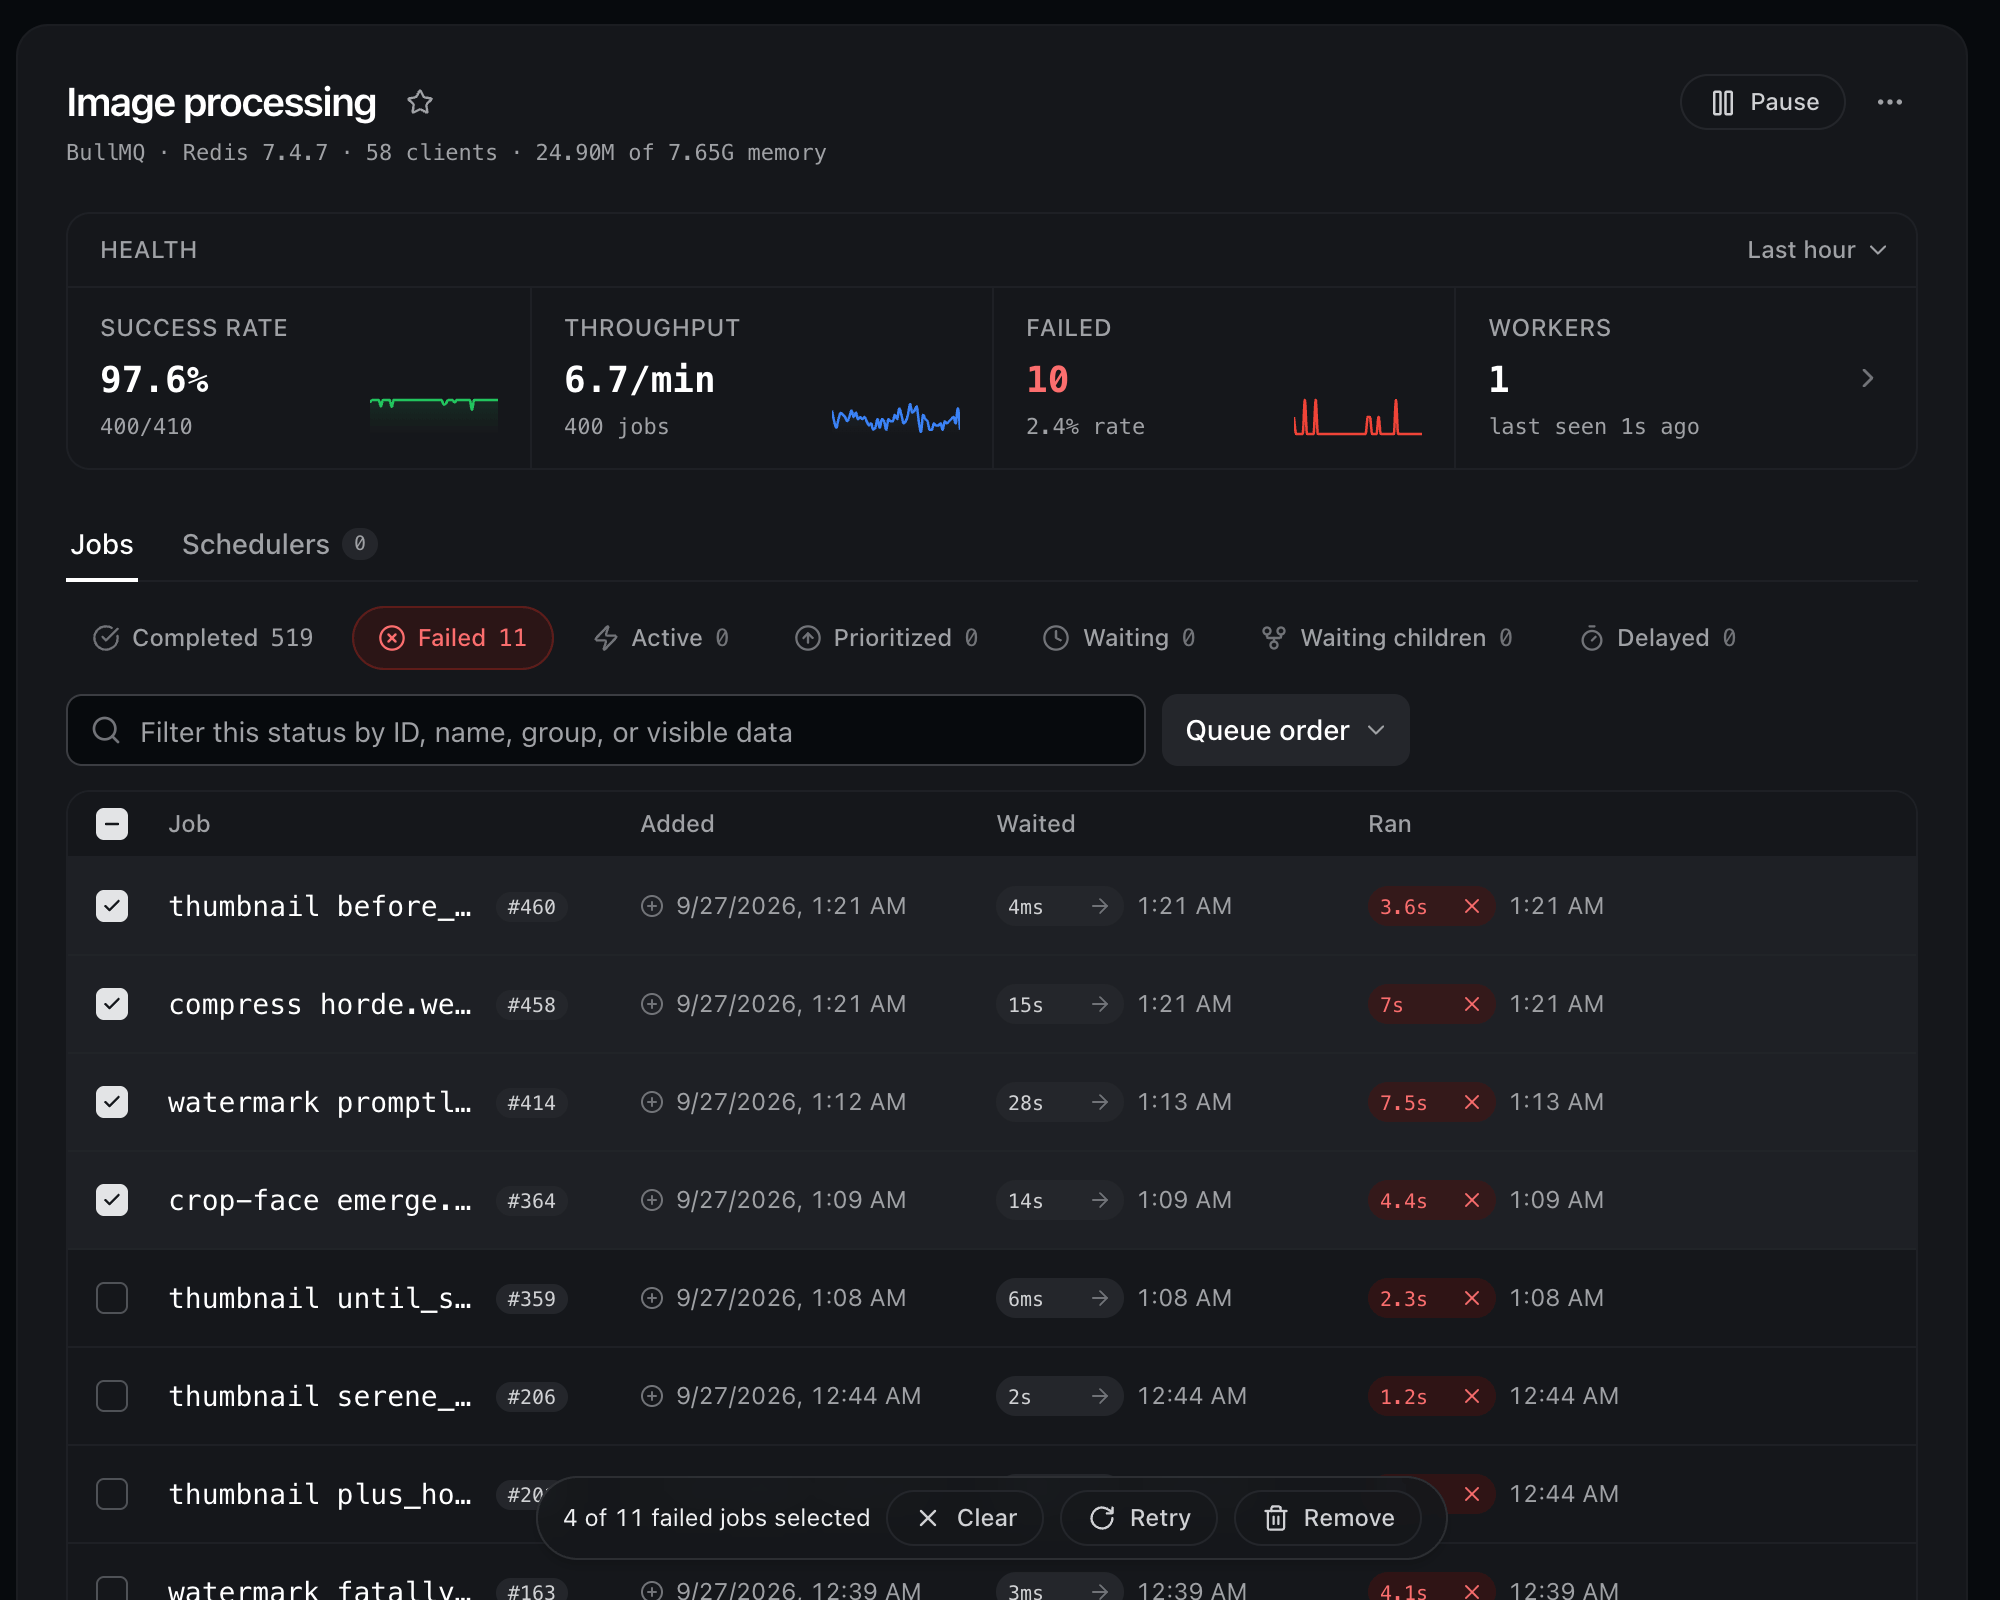
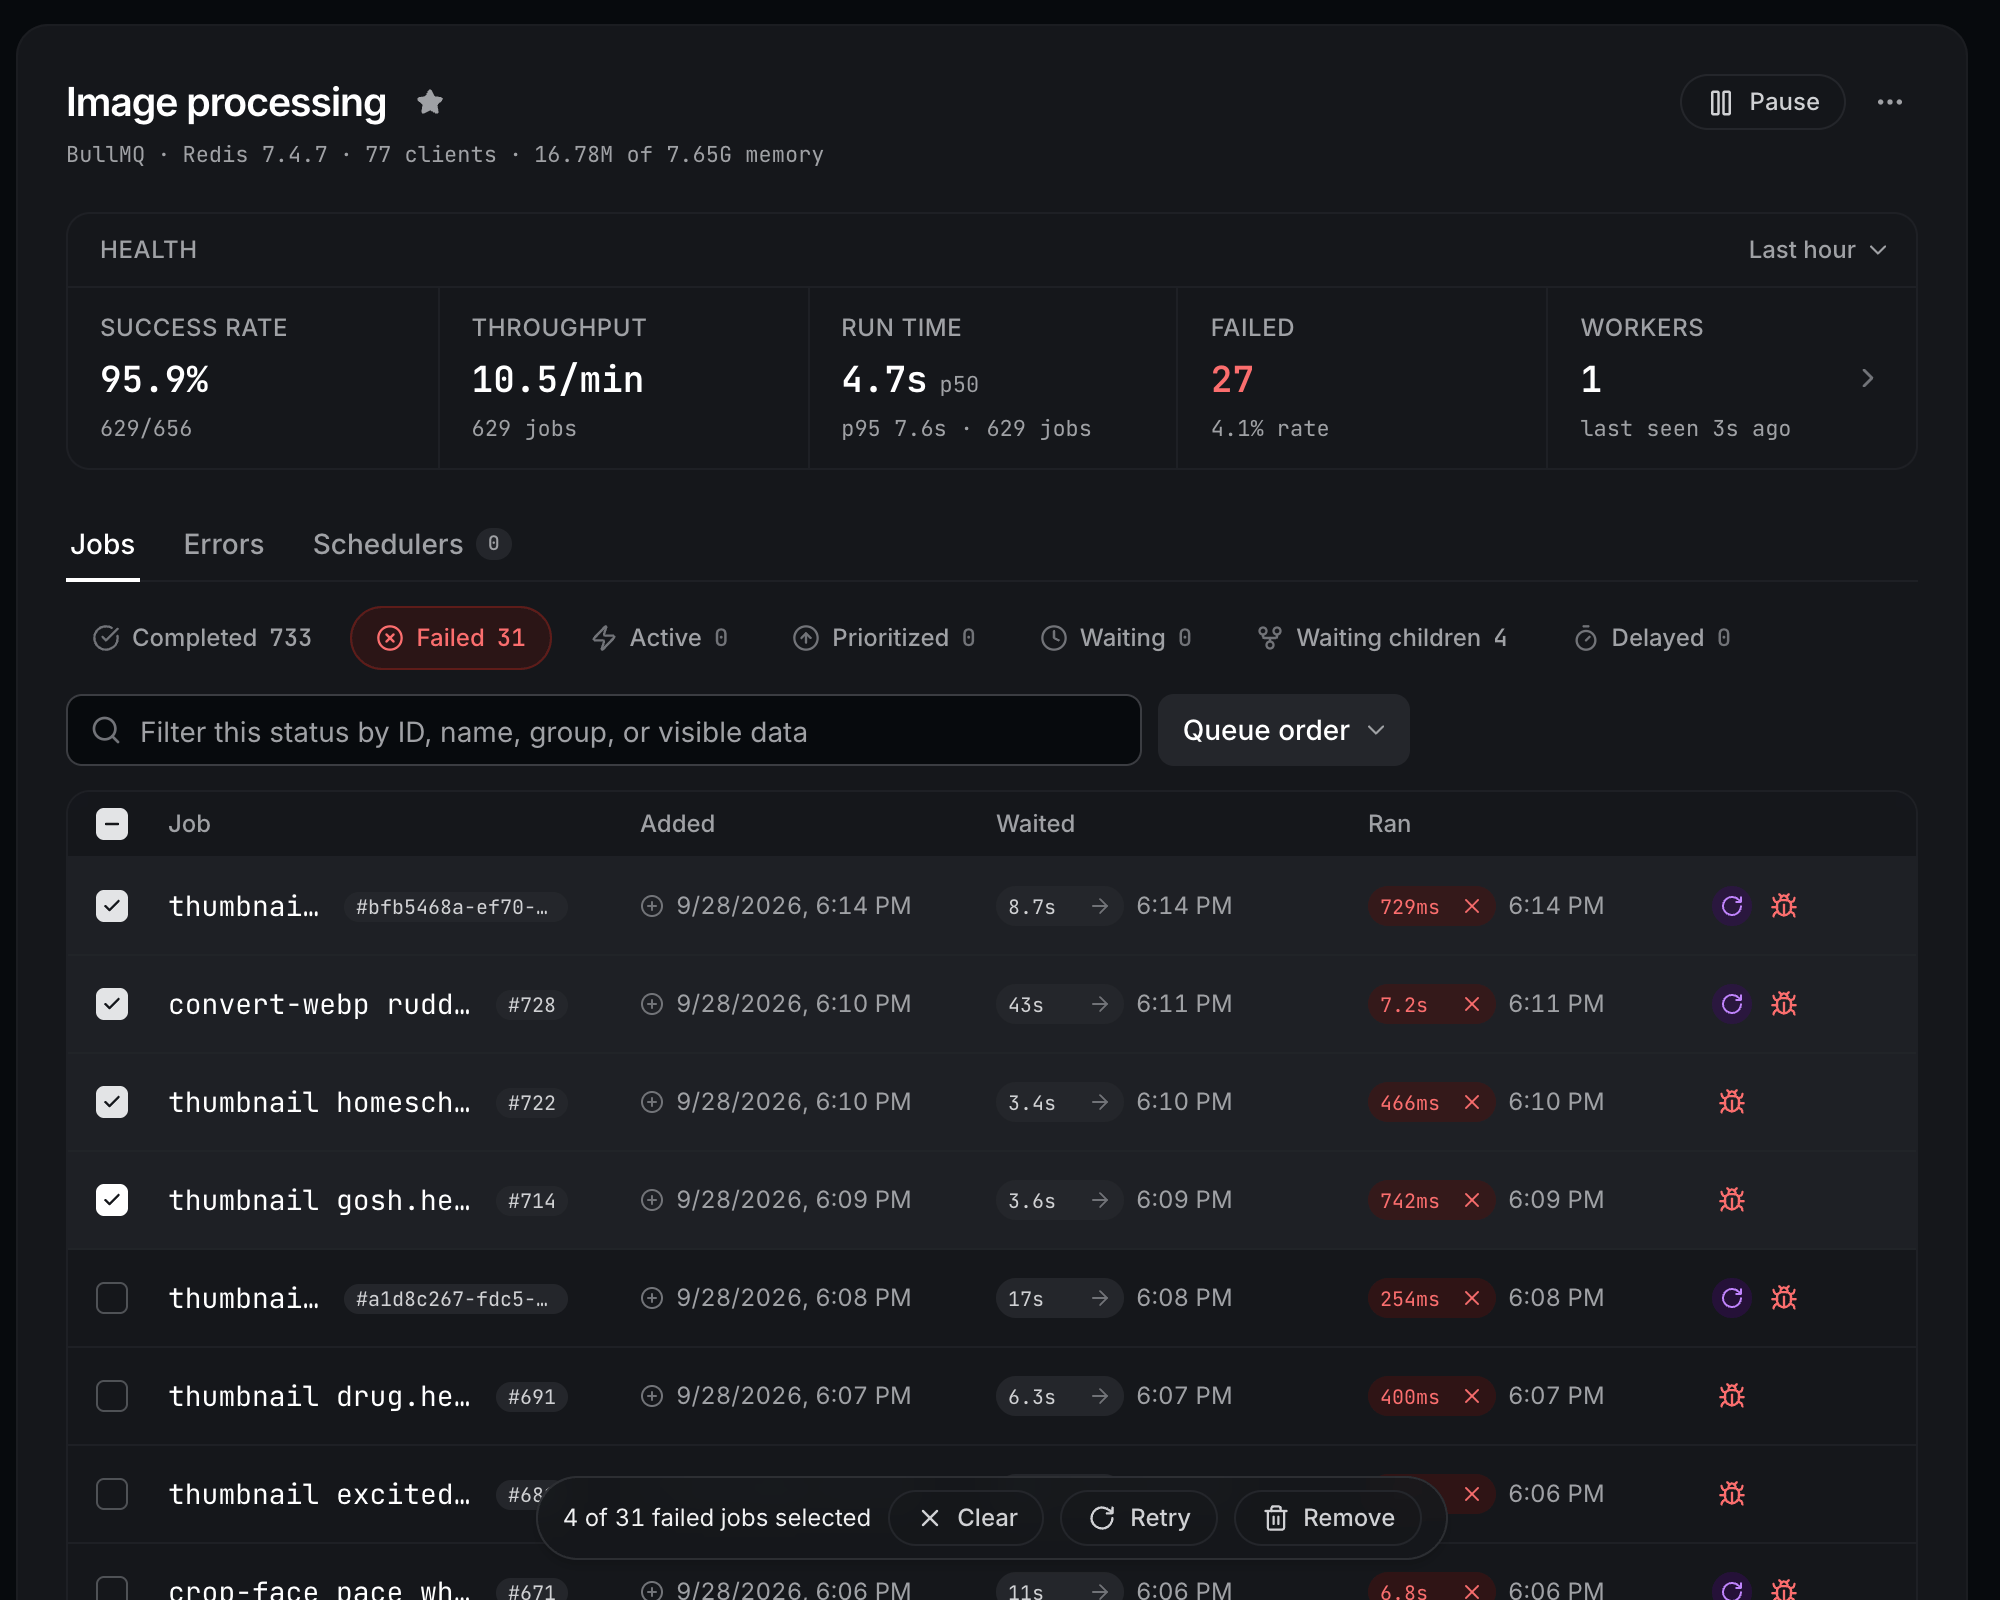
Open the README with a branded hero and eight screenshots
The hero puts the failed-job panel in a window on Queuedash Pro's grid
paper, under "See inside your job queues, right from your own server."
The grid below grows to eight tiles for 4.1: queue health with run
times, the Errors tab, a flow across queues, and Duplicate join the
overview, search, bulk actions and schedulers. The job and palette
tiles go: the hero shows the job panel, and the search caption covers
the palette.

diff --git a/README.md b/README.md
@@ -1,14 +1,10 @@
 <p align="center">
   <a href="https://www.queuedash.com" target="_blank" rel="noopener">
     <picture>
-      <source media="(prefers-color-scheme: dark)" srcset="assets/logo-dark.png">
-      <img src="assets/logo-light.png" alt="Queuedash" width="280">
+      <source media="(prefers-color-scheme: dark)" srcset="assets/screenshots/hero-dark.png">
+      <img src="assets/screenshots/hero-light.png" alt="Queuedash: see inside your job queues, right from your own server. A failed image job is open, with its error, the line of code that threw it, and each attempt.">
     </picture>
   </a>
-</p>
-
-<p align="center">
-  <strong>A dashboard for your job queues. Works with Bull, BullMQ, Bee-Queue, and GroupMQ.</strong>
 </p>
 
 <p align="center">
@@ -20,17 +16,11 @@
   </a>
 </p>
 
-<p align="center">
-  <picture>
-    <source media="(prefers-color-scheme: dark)" srcset="assets/screenshots/queue-dark.png">
-    <img src="assets/screenshots/queue-light.png" alt="The Payment processing queue in Queuedash: its health over the last hour, above a table of completed jobs">
-  </picture>
-</p>
-
-Queuedash runs inside the Node.js server you already have. Open it to see how
-your queues are doing, find the job you're looking for, read its data, logs, and
-error, and retry, remove, or promote it. You decide who can sign in, which queues
-they can see or change, and which job data reaches their browser.
+Queuedash is a dashboard for Bull, BullMQ, Bee-Queue, and GroupMQ that runs
+inside the Node.js server you already have. See how every queue is doing, open
+any job for its data, logs, and every failed attempt, and retry, remove, or
+promote what you find. You decide who can sign in, which queues they can see or
+change, and which job data reaches their browser.
 
 ## What you can do
 
@@ -46,11 +36,29 @@ they can see or change, and which job data reaches their browser.
     </td>
     <td width="50%" valign="top">
       <picture>
-        <source media="(prefers-color-scheme: dark)" srcset="assets/screenshots/job-dark.png">
-        <img src="assets/screenshots/job-light.png" alt="A failed job open in the side panel, with its error and data">
+        <source media="(prefers-color-scheme: dark)" srcset="assets/screenshots/queue-dark.png">
+        <img src="assets/screenshots/queue-light.png" alt="The Image processing queue, with its success rate, throughput, failures, run times, and workers above its jobs">
       </picture>
-      <p><strong>Open any job</strong><br>
-      Its data, logs, return value, and error in one panel. Press <kbd>j</kbd> and <kbd>k</kbd> to step through the list.</p>
+      <p><strong>Watch a queue's health</strong><br>
+      Success rate, throughput, failures, run times at p50 and p95, and its workers, from the last minute to the last week.</p>
+    </td>
+  </tr>
+  <tr>
+    <td width="50%" valign="top">
+      <picture>
+        <source media="(prefers-color-scheme: dark)" srcset="assets/screenshots/errors-dark.png">
+        <img src="assets/screenshots/errors-light.png" alt="The Errors tab, grouping failed image jobs by their error and the code that threw it">
+      </picture>
+      <p><strong>See what keeps failing</strong><br>
+      The Errors tab groups failed jobs by their error and the line of your code that threw it, so one bug shows up once, however many jobs it failed. Retry or remove a whole group.</p>
+    </td>
+    <td width="50%" valign="top">
+      <picture>
+        <source media="(prefers-color-scheme: dark)" srcset="assets/screenshots/flow-dark.png">
+        <img src="assets/screenshots/flow-light.png" alt="A flow's jobs on one timeline across four queues, with the thumbnail child that failed">
+      </picture>
+      <p><strong>Follow a flow across queues</strong><br>
+      Lay out a flow's jobs on one timeline, whichever queues they ran in, and see what the parent is still waiting on.</p>
     </td>
   </tr>
   <tr>
@@ -60,7 +68,7 @@ they can see or change, and which job data reaches their browser.
         <img src="assets/screenshots/search-light.png" alt="Completed jobs filtered by the text password-reset">
       </picture>
       <p><strong>Find the job you need</strong><br>
-      Press <kbd>/</kbd> to filter by text, or sort by date. The view lives in the URL, so you can share it.</p>
+      Press <kbd>/</kbd> to filter by text, or sort by date. The view lives in the URL, so you can share it. <kbd>⌘</kbd> <kbd>K</kbd> jumps to any queue, status, or page.</p>
     </td>
     <td width="50%" valign="top">
       <picture>
@@ -74,19 +82,19 @@ they can see or change, and which job data reaches their browser.
   <tr>
     <td width="50%" valign="top">
       <picture>
+        <source media="(prefers-color-scheme: dark)" srcset="assets/screenshots/duplicate-dark.png">
+        <img src="assets/screenshots/duplicate-light.png" alt="A failed email job duplicated, with the one line that changed marked">
+      </picture>
+      <p><strong>Add and duplicate jobs</strong><br>
+      Add a job with its name, data, and options, or duplicate one to run it again with a change. Queuedash marks what you changed.</p>
+    </td>
+    <td width="50%" valign="top">
+      <picture>
         <source media="(prefers-color-scheme: dark)" srcset="assets/screenshots/schedulers-dark.png">
         <img src="assets/screenshots/schedulers-light.png" alt="A BullMQ job scheduler open in the side panel">
       </picture>
       <p><strong>Manage schedulers</strong><br>
       See what each BullMQ scheduler runs and when it runs next. Add, edit, or remove them.</p>
-    </td>
-    <td width="50%" valign="top">
-      <picture>
-        <source media="(prefers-color-scheme: dark)" srcset="assets/screenshots/palette-dark.png">
-        <img src="assets/screenshots/palette-light.png" alt="The command palette open over a queue">
-      </picture>
-      <p><strong>Jump anywhere</strong><br>
-      Press <kbd>⌘</kbd> <kbd>K</kbd> or <kbd>Ctrl</kbd> <kbd>K</kbd> to go to any queue, status, or page.</p>
     </td>
   </tr>
 </table>
